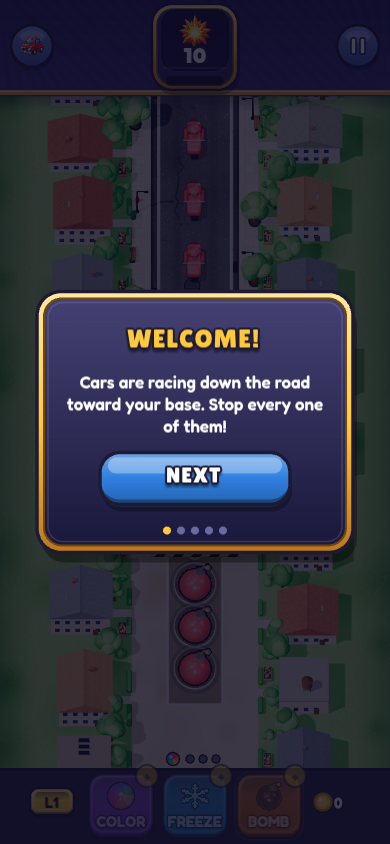
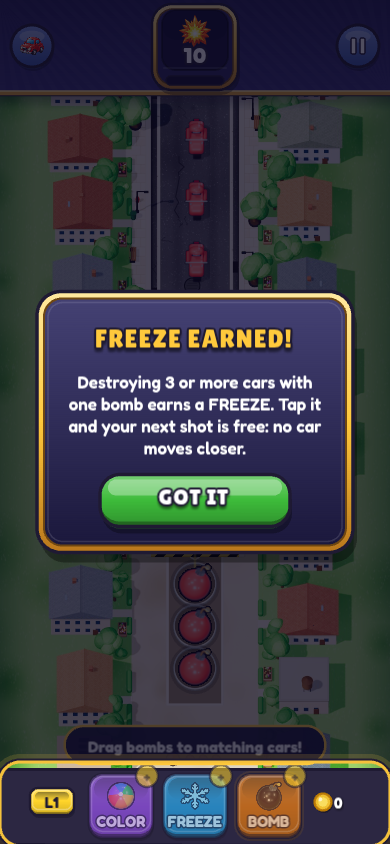
First FREEZE / COLOUR CHANGE earned teaches with a centre card (L1-10); achievements collapse into one card
Claude-Session: https://claude.ai/code/session_012UWBQSfsaUD3YDCf6dWPs3

diff --git a/src/renderer/GameApp.js b/src/renderer/GameApp.js
@@ -609,7 +609,10 @@ async function main() {
   function _showPendingAchievements() {
     if (pendingAchievements.length === 0) return;
     const list = pendingAchievements.splice(0);
-    _showGuide(list.map(a => ({ title: 'ACHIEVEMENT!', text: `${a.name}: ${a.desc}`, cta: 'NICE!' })));
+    // ONE card however many were earned: a chain of cards, each needing a tap, is noise.
+    const shown = list.slice(0, 3).map(a => `${a.name}: ${a.desc}`);
+    if (list.length > shown.length) shown.push(`+${list.length - shown.length} more in ACHIEVEMENTS`);
+    _showGuide([{ title: list.length === 1 ? 'ACHIEVEMENT!' : 'ACHIEVEMENTS!', text: shown.join('\n'), cta: 'NICE!' }]);
   }
   // Back-compat alias: onboarding hint call sites use _showHintCard(show).
   const _showHintCard = _enqueueModal;
@@ -2016,7 +2019,14 @@ async function main() {
 
   // ── Bomb system callbacks ─────────────────────────────────────────────────
   // FIX 4C: a 3+ car chain kill earns a FREEZE charge.
+  // First FREEZE / COLOUR CHANGE earned (L1-10 only, see introSchedule): a centre card pointing at
+  // the booster bar, like the BOMB. Marks the L8/L9 start card as seen so it is not repeated.
+  const _teachEarned = (earnedKey, startKey) => {
+    if (gs.isOver || (gs.goals.length > 0 && gs.isGoalMet())) return;
+    if (fireReactive(earnedKey, '')) featureBanners.mark(startKey);
+  };
   gameLoop._onFreezeEarned = (kills) => {
+    _teachEarned('freeze_earned', 'freeze_booster');
     audio.play('freeze_tinkle');
     haptics.medium();   // booster earned
     floatingTexts.push(spawnFloatingText(
@@ -2026,6 +2036,7 @@ async function main() {
   };
   // Earned by chaining two strictly-consecutive multi-kills (GameLoop._updateColorChangeCombo).
   gameLoop._onColorChangeEarned = () => {
+    _teachEarned('colour_change_earned', 'colour_change_booster');
     audio.play('coin_collect');
     haptics.medium();   // booster earned
     floatingTexts.push(spawnFloatingText(

diff --git a/src/screens/guideContent.js b/src/screens/guideContent.js
@@ -61,6 +61,9 @@ export const CARDS = {
   colour_change_booster: { title: 'COLOUR CHANGE', text: 'Tap COLOUR, tap a car, then pick a colour. ALL cars of that colour change to it. Earn one with two multi-kill shots in a row.', target: 'boosters' },
   rainbow_bomb:    { title: 'RAINBOW BOMB', text: 'Make three shots that each destroy 2 or more cars and a RAINBOW bomb joins your queue. It destroys every car of the colour it hits, in every lane.', target: 'bombs' },
 
+  freeze_earned:   { title: 'FREEZE EARNED!', text: 'Destroying 3 or more cars with one bomb earns a FREEZE. Tap it and your next shot is free: no car moves closer.', target: 'boosters' },
+  colour_change_earned: { title: 'COLOUR CHANGE EARNED!', text: 'Two multi-kill shots in a row earned a COLOUR CHANGE. Tap COLOUR, tap a car, then pick a colour: ALL cars of that colour change to it.', target: 'boosters' },
+
   // ── In-play moments (only inside their window, see introSchedule.js) ──
   first_kill:      { title: 'FIRST KILL!',     text: `Destroyed cars count toward your goal. Destroy ${KILLS_PER_BOMB} cars and you earn a BOMB booster.`, target: 'goal' },
   first_combo:     null,   // taught by the L2 COMBO card

diff --git a/tests-visual/fixtures/game.js b/tests-visual/fixtures/game.js
@@ -64,7 +64,7 @@ export class GamePage {
           if (localStorage.getItem('__qa_fresh_tutorials')) return;   // tour.spec asks for the real first run
           // Every card key in src/screens/guideContent.js CARDS (tests/intro-schedule.test.js keeps this in sync).
           const keys = ['tour', 'lane_2', 'lane_3', 'multi_color', 'combo', 'supercharge', 'reorder', 'goal_colour',
-            'freeze_booster', 'colour_change_booster', 'rainbow_bomb', 'first_kill', 'first_miss', 'hp_miss',
+            'freeze_booster', 'colour_change_booster','freeze_earned','colour_change_earned', 'rainbow_bomb', 'first_kill', 'first_miss', 'hp_miss',
             'streak_charged', 'plate_break', 'armor_break', 'volatile_surge', 'mender_heal'];
           for (let i = 1; i <= 100; i++) keys.push(`hint_L${i}`);
           localStorage.setItem('ftue_banners', JSON.stringify(keys));

diff --git a/src/screens/introSchedule.js b/src/screens/introSchedule.js
@@ -33,6 +33,8 @@ export const REACTIVE_WINDOW = {
   bomb_earned:    [1, 1],
   first_miss:     [2, 2],
   hp_miss:        [2, 2],
+  freeze_earned:  [1, 10],   // first FREEZE earned in play; the L8 start card covers anyone who has not
+  colour_change_earned: [1, 10],   // same for COLOUR CHANGE (L9 card)
   streak_charged: [4, 5],
   rainbow_bomb:   [4, 10],
   armor_break:    [11, 11],
